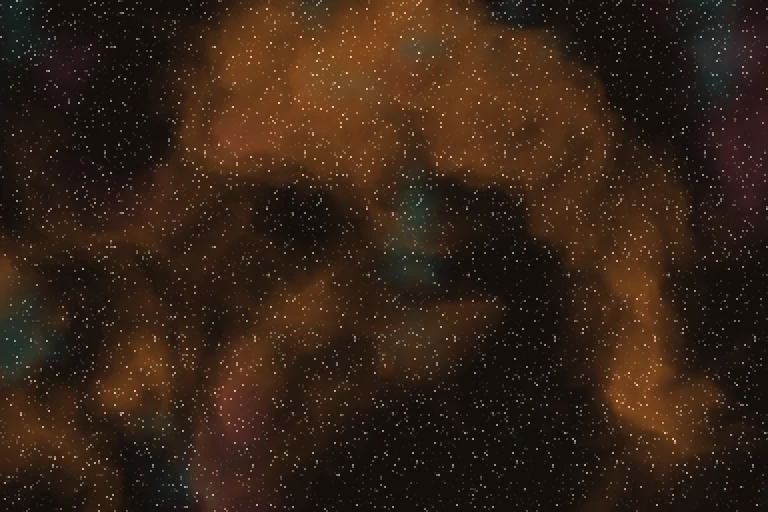
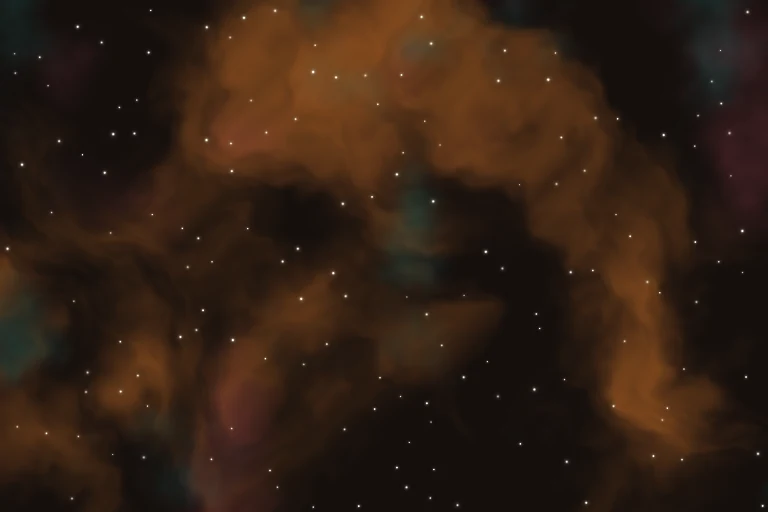
fix(portfolio): animate mobile sky and brighten footer stars

diff --git a/src/components/NebulaBackground.tsx b/src/components/NebulaBackground.tsx
@@ -12,10 +12,10 @@ import styles from "./nebula-background.module.css";
  * warm cream/marigold/teal/rose haze in light mode, a deeper glow on near-black
  * in dark mode, so the footer's own ink stays readable in both.
  *
- * Touch and small screens animate a shader snapshot to retain the clouds and
- * stars without mobile GPU context crashes. Desktop rendering is bounded,
- * pauses offscreen, and falls back to that same image
- * if WebGL fails. Reduced motion freezes either version.
+ * Phones use the same live sky with fewer noise layers, a smaller drawing
+ * buffer, and a lower frame rate. Their offscreen contexts are released.
+ * A drifting shader snapshot takes over if WebGL fails. Reduced motion
+ * freezes either version. Footer tint is applied beneath the stars.
  */
 
 const FRAG = /* glsl */ `
@@ -23,6 +23,9 @@ const FRAG = /* glsl */ `
   uniform vec2 uResolution;
   uniform float uTime;
   uniform float uDark;
+  uniform float uOctaves;
+  uniform float uScale;
+  uniform float uVeil;
 
   float hash(vec2 p){ p = fract(p * vec2(123.34, 456.21)); p += dot(p, p + 45.32); return fract(p.x * p.y); }
   float noise(vec2 p){
@@ -34,8 +37,11 @@ const FRAG = /* glsl */ `
   }
   float fbm(vec2 p){
     float v = 0.0, a = 0.5;
-    for (int i = 0; i < 5; i++){ v += a * noise(p); p *= 2.0; a *= 0.5; }
-    return v;
+    for (int i = 0; i < 5; i++){
+      if (float(i) >= uOctaves) break;
+      v += a * noise(p); p *= 2.0; a *= 0.5;
+    }
+    return v * (0.96875 / (1.0 - pow(0.5, uOctaves)));
   }
 
   void main(){
@@ -64,8 +70,24 @@ const FRAG = /* glsl */ `
     col = mix(col, teal, smoothstep(0.50, 1.0, n2) * w * 0.7);
     col = mix(col, rose, smoothstep(0.55, 0.96, n1) * w * 0.65);
 
-    float star = pow(hash(floor(gl_FragCoord.xy * 0.5)), 42.0);
-    col += star * mix(0.18, 0.55, uDark);
+    // Tint the clouds first. The stars retain their own light above the veil.
+    col = mix(col, base, uVeil);
+    // Sparse, softly glowing points measured in CSS pixels, so lowering the
+    // phone drawing buffer does not turn the stars into chunky noise.
+    vec2 sky = gl_FragCoord.xy / uScale;
+    vec2 cell = floor(sky / 32.0);
+    float seed = hash(cell + 19.7);
+    vec2 center = vec2(hash(cell + 3.1), hash(cell + 8.3)) * 24.0 + 4.0;
+    vec2 delta = mod(sky, 32.0) - center;
+    float radius = mix(0.7, 1.5, hash(cell + 41.2));
+    float d2 = dot(delta, delta) / (radius * radius);
+    float twinkle = 0.76 + 0.24 * sin(uTime * 1.7 + seed * 31.0);
+    float strength = step(0.62, seed) * twinkle;
+    float core = exp(-d2 * 1.5) * strength;
+    float halo = exp(-d2 * 0.22) * 0.16 * strength;
+    vec3 glow = mix(vec3(0.75, 0.58, 0.30), vec3(1.0, 0.96, 0.86), uDark);
+    col = mix(col, glow, halo);
+    col = mix(col, vec3(1.0, 0.98, 0.92), min(core * 1.4, 1.0));
 
     gl_FragColor = vec4(col, 1.0);
   }
@@ -75,7 +97,7 @@ const VERT = /* glsl */ `
   void main(){ gl_Position = vec4(position, 1.0); }
 `;
 
-export function NebulaBackground() {
+export function NebulaBackground({ variant = "banner" }: { variant?: "banner" | "footer" } = {}) {
   const hostRef = useRef<HTMLDivElement>(null);
 
   useEffect(() => {
@@ -97,7 +119,7 @@ export function NebulaBackground() {
     let geometry: Three.PlaneGeometry | undefined;
     let material: Three.ShaderMaterial | undefined;
     const motion = window.matchMedia("(prefers-reduced-motion: reduce)");
-    const simple = window.matchMedia("(max-width: 767px), (pointer: coarse)");
+    const mobile = window.matchMedia("(max-width: 767px), (pointer: coarse)");
 
     const stop = () => { cancelAnimationFrame(raf); raf = 0; };
     const setState = (state: "css" | "webgl" | "paused" | "fallback") => {
@@ -137,8 +159,7 @@ export function NebulaBackground() {
       if (disposed || !visible || document.hidden || motion.matches || !renderer) return;
       elapsed += Math.min(now - lastFrame, 100) / 1000;
       lastFrame = now;
-      // The soft haze needs only 30 painted frames per second.
-      if (now - lastPaint >= 1000 / 30) {
+      if (now - lastPaint >= 1000 / (mobile.matches ? 20 : 30)) {
         lastPaint = now;
         if (!paint()) return;
       }
@@ -149,18 +170,20 @@ export function NebulaBackground() {
       const w = host.clientWidth, h = host.clientHeight;
       if (!w || !h) return;
       // Bound the actual drawing buffer, including on high-DPI screens.
-      const scale = Math.min(1, Math.sqrt(300000 / (w * h)));
+      const scale = Math.min(1, Math.sqrt((mobile.matches ? 96000 : 300000) / (w * h)));
       const width = Math.max(1, Math.floor(w * scale));
       const height = Math.max(1, Math.floor(h * scale));
       if (canvas.width !== width || canvas.height !== height) renderer.setSize(width, height, false);
       material.uniforms.uResolution.value.set(canvas.width, canvas.height);
+      material.uniforms.uScale.value = canvas.width / w;
+      material.uniforms.uOctaves.value = mobile.matches ? 3 : 5;
     };
     const initialize = async () => {
-      if (disposed || initializing || failed || simple.matches || renderer) return;
+      if (disposed || initializing || failed || renderer) return;
       initializing = true;
       try {
         const THREE = await import("three");
-        if (disposed || simple.matches || !visible || document.hidden) return;
+        if (disposed || !visible || document.hidden || (mobile.matches && motion.matches)) return;
         canvas = document.createElement("canvas");
         canvas.className = styles.canvas;
         canvas.addEventListener("webglcontextlost", lost);
@@ -173,6 +196,9 @@ export function NebulaBackground() {
           uResolution: { value: new THREE.Vector2(1, 1) },
           uTime: { value: elapsed },
           uDark: { value: document.documentElement.classList.contains("dark") ? 1 : 0 },
+          uOctaves: { value: mobile.matches ? 3 : 5 },
+          uScale: { value: 1 },
+          uVeil: { value: variant === "footer" ? 0.42 : 0 },
         } });
         scene.add(new THREE.Mesh(geometry, material));
         size();
@@ -184,7 +210,9 @@ export function NebulaBackground() {
     function sync() {
       stop();
       if (disposed || !host) return;
-      if (simple.matches) { release(); setState("css"); return; }
+      if (mobile.matches && (!visible || document.hidden || motion.matches)) {
+        release(); setState("css"); return;
+      }
       if (failed) { setState("fallback"); return; }
       if (!visible || document.hidden || !host.clientWidth || !host.clientHeight) { setState(renderer ? "paused" : "css"); return; }
       if (!renderer) { void initialize(); return; }
@@ -203,7 +231,7 @@ export function NebulaBackground() {
     themeObserver.observe(document.documentElement, { attributes: true, attributeFilter: ["class"] });
     document.addEventListener("visibilitychange", sync);
     motion.addEventListener("change", sync);
-    simple.addEventListener("change", sync);
+    mobile.addEventListener("change", resize);
 
     return () => {
       disposed = true;
@@ -212,10 +240,10 @@ export function NebulaBackground() {
       themeObserver.disconnect();
       document.removeEventListener("visibilitychange", sync);
       motion.removeEventListener("change", sync);
-      simple.removeEventListener("change", sync);
+      mobile.removeEventListener("change", resize);
       release();
     };
-  }, []);
+  }, [variant]);
 
-  return <div ref={hostRef} data-nebula data-nebula-state="css" aria-hidden="true" className={styles.background} />;
+  return <div ref={hostRef} data-nebula data-nebula-state="css" aria-hidden="true" className={`${styles.background} ${variant === "footer" ? styles.footer : ""}`} />;
 }

diff --git a/src/components/nebula-background.module.css b/src/components/nebula-background.module.css
@@ -8,18 +8,23 @@
 .background::before {
   content: "";
   position: absolute;
-  inset: -4%;
-  /* A frame of the desktop shader retains its clouds and stars on phones
-     without allocating a WebGL context. The canvas covers this on desktop. */
+  inset: -14%;
+  /* The live canvas covers this fallback. The footer snapshot already has
+     its cloud tint baked in beneath the stars, just like the live shader. */
   background: url("/images/nebula-light.webp") center / cover no-repeat;
-  animation: haze 36s ease-in-out infinite alternate;
+  animation: haze 24s ease-in-out -8s infinite alternate;
   animation-play-state: paused;
 }
 :global(.dark) .background { background: #150f0d; }
 :global(.dark) .background::before {
   background-image: url("/images/nebula-dark.webp");
 }
+.footer::before { background-image: url("/images/nebula-light-footer.webp"); }
+:global(.dark) .footer::before { background-image: url("/images/nebula-dark-footer.webp"); }
 .background[data-nebula-running]::before { animation-play-state: running; }
 .canvas { position: absolute; inset: 0; display: block; width: 100%; height: 100%; }
-@keyframes haze { to { transform: translate(2%, -2%) scale(1.04); } }
+@keyframes haze {
+  from { transform: translate(-4%, 3%) scale(1.02); }
+  to { transform: translate(4%, -3%) scale(1.12); }
+}
 @media (prefers-reduced-motion: reduce) { .background::before { animation: none; } }

diff --git a/src/components/Footer.tsx b/src/components/Footer.tsx
@@ -69,15 +69,9 @@ export function Footer() {
       }}
     >
       <div className="relative overflow-hidden rounded-[14px]" style={{ backgroundColor: "var(--fx-card)" }}>
-        {/* Animated nebula standing in for the flat board colour, with a veil
-            of the card tone over it so the ink keeps its contrast. Both layers
-            sit behind the content (`relative z-10`). */}
-        <NebulaBackground />
-        <div
-          aria-hidden="true"
-          className="absolute inset-0"
-          style={{ backgroundColor: "color-mix(in srgb, var(--fx-card) 42%, transparent)" }}
-        />
+        {/* The nebula tints its clouds beneath the stars, keeping the ink
+            readable without dimming the sky's points of light. */}
+        <NebulaBackground variant="footer" />
         <div className={styles.content}>
           {/* Masthead — logo + wordmark. */}
           <div className={styles.brand}>
